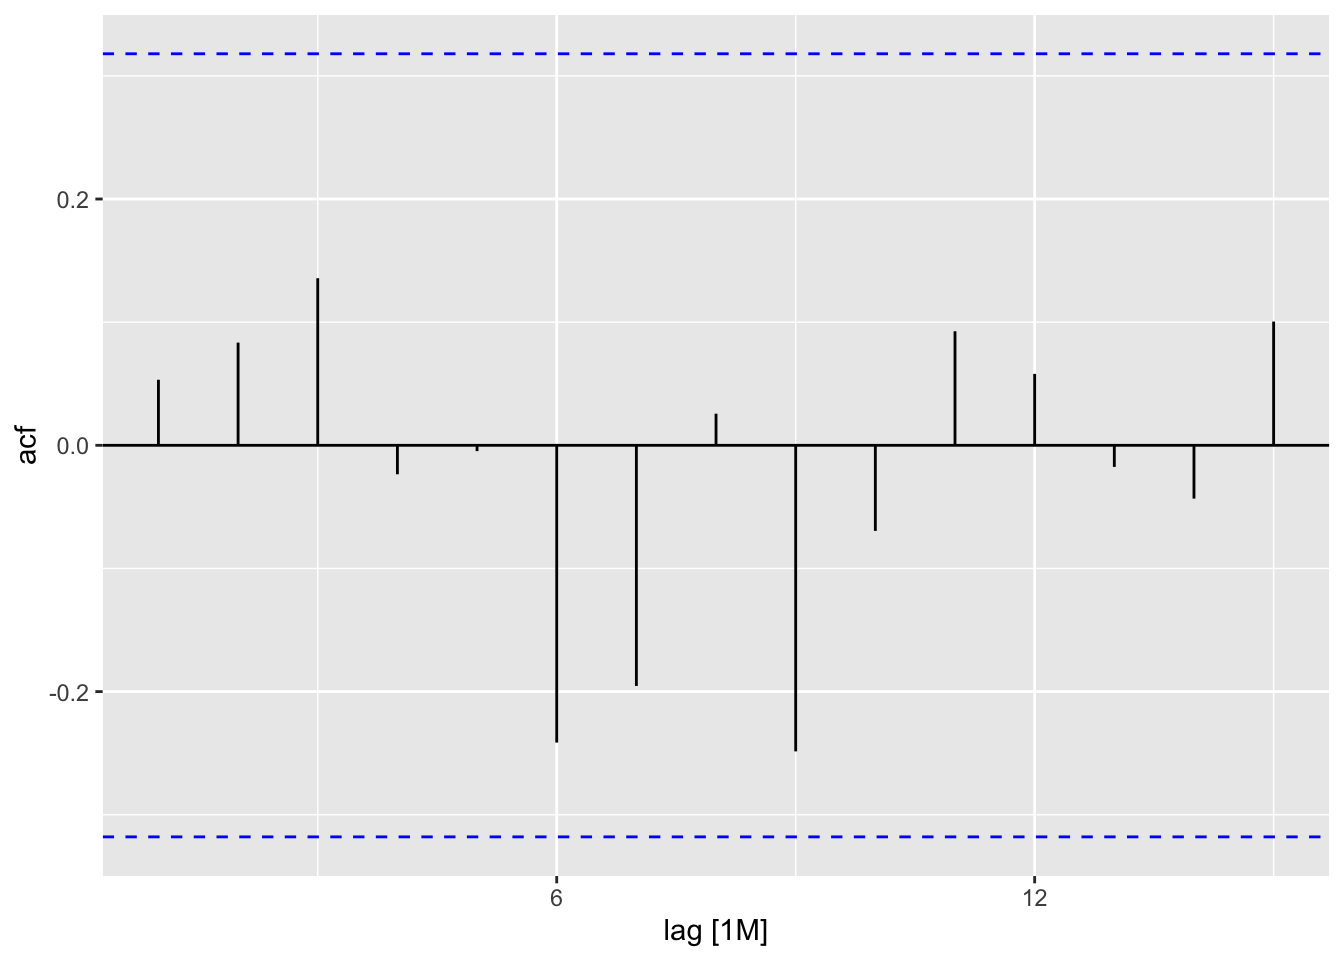
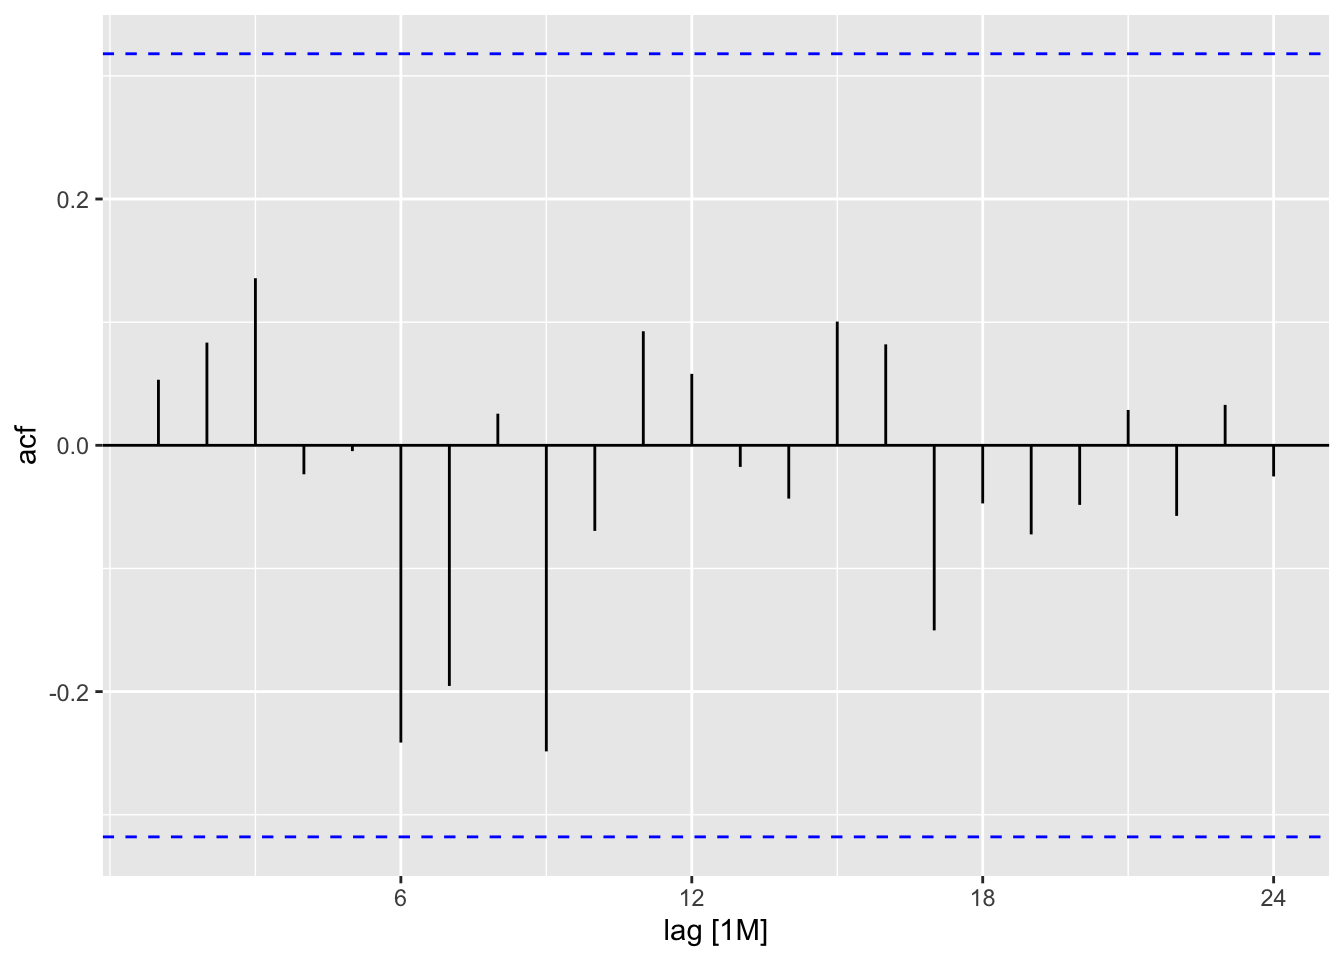
changes

diff --git a/docs/ARIMA.html b/docs/ARIMA.html
@@ -3811,14 +3811,8 @@ Suggested Answer
 <span id="cb31-8"><a href="#cb31-8" aria-hidden="true" tabindex="-1"></a>  <span class="fu">as_tsibble</span>(<span class="at">index=</span>Date)<span class="ot">-&gt;</span> Elec_ts</span></code><button title="Copy to Clipboard" class="code-copy-button"><i class="bi"></i></button></pre></div>
 </div>
 <p>We can now graph the ACF and the PACF of the <em>Bill Amount</em> variable:</p>
-<div class="sourceCode cell-code" id="cb32"><pre class="sourceCode r code-with-copy"><code class="sourceCode r"><span id="cb32-1"><a href="#cb32-1" aria-hidden="true" tabindex="-1"></a>Elec_ts <span class="sc">%&gt;%</span> <span class="fu">ACF</span>(<span class="at">lag_max =</span> <span class="dv">12</span>) <span class="sc">%&gt;%</span> <span class="fu">autoplot</span>()</span></code><button title="Copy to Clipboard" class="code-copy-button"><i class="bi"></i></button></pre></div>
-<div class="cell-output cell-output-stderr">
-<pre><code>Response variable not specified, automatically selected `var = Bill Amount`</code></pre>
-</div>
-<div class="sourceCode cell-code" id="cb34"><pre class="sourceCode r code-with-copy"><code class="sourceCode r"><span id="cb34-1"><a href="#cb34-1" aria-hidden="true" tabindex="-1"></a>Elec_ts <span class="sc">%&gt;%</span> <span class="fu">PACF</span>(<span class="at">lag_max =</span> <span class="dv">12</span>) <span class="sc">%&gt;%</span> <span class="fu">autoplot</span>()</span></code><button title="Copy to Clipboard" class="code-copy-button"><i class="bi"></i></button></pre></div>
-<div class="cell-output cell-output-stderr">
-<pre><code>Response variable not specified, automatically selected `var = Bill Amount`</code></pre>
-</div>
+<div class="sourceCode cell-code" id="cb32"><pre class="sourceCode r code-with-copy"><code class="sourceCode r"><span id="cb32-1"><a href="#cb32-1" aria-hidden="true" tabindex="-1"></a>Elec_ts <span class="sc">%&gt;%</span> <span class="fu">ACF</span>(<span class="st">`</span><span class="at">Bill Amount</span><span class="st">`</span>,<span class="at">lag_max =</span> <span class="dv">24</span>) <span class="sc">%&gt;%</span> <span class="fu">autoplot</span>()</span>
+<span id="cb32-2"><a href="#cb32-2" aria-hidden="true" tabindex="-1"></a>Elec_ts <span class="sc">%&gt;%</span> <span class="fu">PACF</span>(<span class="st">`</span><span class="at">Bill Amount</span><span class="st">`</span>,<span class="at">lag_max =</span> <span class="dv">24</span>) <span class="sc">%&gt;%</span> <span class="fu">autoplot</span>()</span></code><button title="Copy to Clipboard" class="code-copy-button"><i class="bi"></i></button></pre></div>
 <div class="cell quarto-layout-panel" data-layout-ncol="2">
 <div class="quarto-layout-row">
 <div class="quarto-layout-cell" style="flex-basis: 50.0%;justify-content: center;">
@@ -3831,18 +3825,18 @@ Suggested Answer
 </div>
 <p>There is a one spike at lag number one in the ACF and one spike in lag number one in the PACF. We could use both an AR1 or MA1 process to model the behavior. Let’s estimate the AR1.</p>
 <div class="cell">
-<div class="sourceCode cell-code" id="cb36"><pre class="sourceCode r code-with-copy"><code class="sourceCode r"><span id="cb36-1"><a href="#cb36-1" aria-hidden="true" tabindex="-1"></a>Elec_ts <span class="sc">%&gt;%</span> <span class="fu">model</span>(<span class="at">AR1=</span><span class="fu">ARIMA</span>(<span class="st">`</span><span class="at">Bill Amount</span><span class="st">`</span><span class="sc">~</span><span class="fu">pdq</span>(<span class="dv">1</span>,<span class="dv">0</span>,<span class="dv">0</span>))) <span class="ot">-&gt;</span> fit</span></code><button title="Copy to Clipboard" class="code-copy-button"><i class="bi"></i></button></pre></div>
+<div class="sourceCode cell-code" id="cb33"><pre class="sourceCode r code-with-copy"><code class="sourceCode r"><span id="cb33-1"><a href="#cb33-1" aria-hidden="true" tabindex="-1"></a>Elec_ts <span class="sc">%&gt;%</span> <span class="fu">model</span>(<span class="at">AR1=</span><span class="fu">ARIMA</span>(<span class="st">`</span><span class="at">Bill Amount</span><span class="st">`</span><span class="sc">~</span><span class="fu">pdq</span>(<span class="dv">1</span>,<span class="dv">0</span>,<span class="dv">0</span>))) <span class="ot">-&gt;</span> fit</span></code><button title="Copy to Clipboard" class="code-copy-button"><i class="bi"></i></button></pre></div>
 </div>
 <p>Now we can check the residuals and see if they resemble white noise:</p>
-<div class="sourceCode cell-code" id="cb37"><pre class="sourceCode r code-with-copy"><code class="sourceCode r"><span id="cb37-1"><a href="#cb37-1" aria-hidden="true" tabindex="-1"></a>fit <span class="sc">%&gt;%</span> <span class="fu">augment</span>() <span class="sc">%&gt;%</span> <span class="fu">ACF</span>(.resid) <span class="sc">%&gt;%</span> <span class="fu">autoplot</span>()</span>
-<span id="cb37-2"><a href="#cb37-2" aria-hidden="true" tabindex="-1"></a>fit <span class="sc">%&gt;%</span> <span class="fu">augment</span>() <span class="sc">%&gt;%</span> <span class="fu">PACF</span>(.resid) <span class="sc">%&gt;%</span> <span class="fu">autoplot</span>()</span></code><button title="Copy to Clipboard" class="code-copy-button"><i class="bi"></i></button></pre></div>
+<div class="sourceCode cell-code" id="cb34"><pre class="sourceCode r code-with-copy"><code class="sourceCode r"><span id="cb34-1"><a href="#cb34-1" aria-hidden="true" tabindex="-1"></a>fit <span class="sc">%&gt;%</span> <span class="fu">augment</span>() <span class="sc">%&gt;%</span> <span class="fu">ACF</span>(.resid,<span class="at">lag_max =</span> <span class="dv">24</span>) <span class="sc">%&gt;%</span> <span class="fu">autoplot</span>()</span>
+<span id="cb34-2"><a href="#cb34-2" aria-hidden="true" tabindex="-1"></a>fit <span class="sc">%&gt;%</span> <span class="fu">augment</span>() <span class="sc">%&gt;%</span> <span class="fu">PACF</span>(.resid,<span class="at">lag_max =</span> <span class="dv">24</span>) <span class="sc">%&gt;%</span> <span class="fu">autoplot</span>()</span></code><button title="Copy to Clipboard" class="code-copy-button"><i class="bi"></i></button></pre></div>
 <div class="cell quarto-layout-panel" data-layout-ncol="2">
 <div class="quarto-layout-row">
 <div class="quarto-layout-cell" style="flex-basis: 50.0%;justify-content: center;">
-<p><img src="ARIMA_files/figure-html/unnamed-chunk-41-1.png" class="img-fluid" style="width:50.0%"></p>
+<p><img src="ARIMA_files/figure-html/unnamed-chunk-41-1.png" class="img-fluid" style="width:80.0%"></p>
 </div>
 <div class="quarto-layout-cell" style="flex-basis: 50.0%;justify-content: center;">
-<p><img src="ARIMA_files/figure-html/unnamed-chunk-41-2.png" class="img-fluid" style="width:50.0%"></p>
+<p><img src="ARIMA_files/figure-html/unnamed-chunk-41-2.png" class="img-fluid" style="width:80.0%"></p>
 </div>
 </div>
 </div>
